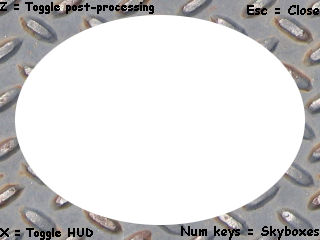
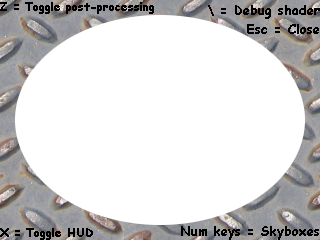
minor updates

Changed region(s): [[0.6562, 0.0, 1.0, 0.0875], [0.75, 0.0875, 1.0, 0.1458]]

diff --git a/example/example.c b/example/example.c
@@ -34,6 +34,7 @@ int main(int argc, char** argv) {
     stbi_set_flip_vertically_on_load(1);
 
     prShaderData* shaderProgram = createDefaultShader(test->openglContext);
+    debugShaderProgram = createDebugShader(test->openglContext);
 
     prShaderData* skyboxShaderProgram = prShaderCreate();
     prShaderLinkContext(skyboxShaderProgram, test->openglContext);
@@ -285,6 +286,9 @@ int main(int argc, char** argv) {
     test->openglContext->Enable(GL_BLEND);
 
     glfwMaximizeWindow(test->window);
+
+    prShaderSetUniform2f(debugShaderProgram, "screenSize", windowWidth, windowHeight);
+
     while(!glfwWindowShouldClose(test->window)) {
         test->openglContext->Enable(GL_DEPTH_TEST);
         prFramebufferClear(test->openglContext, NULL, PR_BUFFER_BIT_COLOR | PR_BUFFER_BIT_DEPTH);
@@ -299,47 +303,49 @@ int main(int argc, char** argv) {
         vec3 rotation = {radians(yaw), radians(pitch), radians(0.0f)};
         prCameraUpdate(camera, cameraPosition, rotation, 45.0f, 0.1f, 1500.0f);
 
+        prShaderData* currentShaderProgram = (useDebugShader ? debugShaderProgram : shaderProgram);
+
         prShaderSetUniform3f(shaderProgram, "cameraPosition", camera->position[0], camera->position[1], camera->position[2]);
-        prShaderSetUniformMatrix4fv(shaderProgram, "view", camera->view[0]);
-        prShaderSetUniformMatrix4fv(shaderProgram, "projection", camera->projection[0]);
+        prShaderSetUniformMatrix4fv(currentShaderProgram, "view", camera->view[0]);
+        prShaderSetUniformMatrix4fv(currentShaderProgram, "projection", camera->projection[0]);
 
         float val = smoothOvertimeSin();
 
         prFramebufferBind(framebuffer);
 
         translationsToMatrix(translation, (vec3){0.0f, 0.0f, -20.0f}, GLM_VEC3_ZERO, (vec3){30.0f, 30.0f, 10.0f});
-        bindMaterial(&materialMetal, shaderProgram);
-        prShaderSetUniformMatrix4fv(shaderProgram, "translation", translation[0]);
+        bindMaterial(&materialMetal, currentShaderProgram);
+        prShaderSetUniformMatrix4fv(currentShaderProgram, "translation", translation[0]);
         prMeshDraw(meshCube);
 
         translationsToMatrix(translation, (vec3){0.0f, -20.0f, 0.0f}, GLM_VEC3_ZERO, (vec3){30.0f, 10.0f, 30.0f});
-        bindMaterial(&materialMetal, shaderProgram);
-        prShaderSetUniformMatrix4fv(shaderProgram, "translation", translation[0]);
+        bindMaterial(&materialMetal, currentShaderProgram);
+        prShaderSetUniformMatrix4fv(currentShaderProgram, "translation", translation[0]);
         prMeshDraw(meshCube);
 
         translationsToMatrix(translation, (vec3){-20.0f, 0.0f, 0.0f}, GLM_VEC3_ZERO, (vec3){10.0f, 30.0f, 30.0f});
-        bindMaterial(&materialMetal, shaderProgram);
-        prShaderSetUniformMatrix4fv(shaderProgram, "translation", translation[0]);
+        bindMaterial(&materialMetal, currentShaderProgram);
+        prShaderSetUniformMatrix4fv(currentShaderProgram, "translation", translation[0]);
         prMeshDraw(meshCube);
 
         translationsToMatrix(translation, (vec3){1.0f, 0.0f, 0.0f}, (vec3){0.0f, val, 0.0f}, GLM_VEC3_ONE);
-        bindMaterial(&materialWood, shaderProgram);
-        prShaderSetUniformMatrix4fv(shaderProgram, "translation", translation[0]);
+        bindMaterial(&materialWood, currentShaderProgram);
+        prShaderSetUniformMatrix4fv(currentShaderProgram, "translation", translation[0]);
         prMeshDraw(meshCube);
 
         translationsToMatrix(translation, (vec3){-1.0f, 0.0f, 0.0f}, (vec3){0.0f, val, 0.0f}, GLM_VEC3_ONE);
-        bindMaterial(&materialWoodMetal, shaderProgram);
-        prShaderSetUniformMatrix4fv(shaderProgram, "translation", translation[0]);
+        bindMaterial(&materialWoodMetal, currentShaderProgram);
+        prShaderSetUniformMatrix4fv(currentShaderProgram, "translation", translation[0]);
         prMeshDraw(meshCube);
 
         translationsToMatrix(translation, (vec3){0.0f, 1.5f, 0.0f}, (vec3){0.0f, val, 0.0f}, GLM_VEC3_ONE);
-        bindMaterial(&materialBrick, shaderProgram);
-        prShaderSetUniformMatrix4fv(shaderProgram, "translation", translation[0]);
+        bindMaterial(&materialBrick, currentShaderProgram);
+        prShaderSetUniformMatrix4fv(currentShaderProgram, "translation", translation[0]);
         prMeshDraw(meshCube);
 
         translationsToMatrix(translation, (vec3){0.0f, val / 3.5f - 1.5f, 0.0f}, (vec3){0.0f, radians(val * 100.0f), 0.0f}, GLM_VEC3_ONE);
-        bindMaterial(&defaultMaterial, shaderProgram);
-        prShaderSetUniformMatrix4fv(shaderProgram, "translation", translation[0]);
+        bindMaterial(&defaultMaterial, currentShaderProgram);
+        prShaderSetUniformMatrix4fv(currentShaderProgram, "translation", translation[0]);
         prMeshDraw(meshCube);
 
         switch(currentSkybox) {
@@ -458,6 +464,8 @@ int main(int argc, char** argv) {
 
     prComputeShaderDestroy(computeShaderProgram);
     computeShaderProgram = NULL;
+    prShaderDestroy(debugShaderProgram);
+    debugShaderProgram = NULL;
     prShaderDestroy(hudShaderProgram);
     hudShaderProgram = NULL;
     prShaderDestroy(skyboxShaderProgram);

diff --git a/example/exampleGlobalValues.h b/example/exampleGlobalValues.h
@@ -334,6 +334,49 @@ void main() {\n\
 "
 #endif
 
+#ifndef DEBUG_FRAGMENT_SHADER
+#define DEBUG_FRAGMENT_SHADER "\n\
+#version 460 core\n\
+out vec4 fragmentColor;\n\
+\n\
+uniform vec2 screenSize;\n\
+\n\
+in vec3 fragmentPosition;\n\
+in vec3 normals;\n\
+in vec2 textureCoordinates;\n\
+\n\
+struct Material {\n\
+    sampler2D ambient;\n\
+    sampler2D diffuse;\n\
+    sampler2D specular;\n\
+    sampler2D normal;\n\
+    float shininess;\n\
+};\n\
+uniform Material material;\n\
+\n\
+void main() {\n\
+    vec4 ambient = texture(material.ambient, textureCoordinates);\n\
+    vec4 diffuse = texture(material.diffuse, textureCoordinates);\n\
+    vec3 specular = texture(material.specular, textureCoordinates).rgb;\n\
+    vec3 normal = normalize(texture(material.normal, textureCoordinates)).xyz;\n\
+    normal = normalize(normals);\n\
+    \n\
+    vec4 result = vec4(0.0, 0.0, 0.0, 1.0);\n\
+    if(gl_FragCoord.x > screenSize.x / 2 && gl_FragCoord.y > screenSize.y / 2) {\n\
+        result = ambient;\n\
+    } else if(gl_FragCoord.x > screenSize.x / 2 && gl_FragCoord.y <= screenSize.y / 2) {\n\
+        result = diffuse;\n\
+    } else if(gl_FragCoord.x <= screenSize.x / 2 && gl_FragCoord.y <= screenSize.y / 2) {\n\
+        result = vec4(specular, 1.0);\n\
+    } else if(gl_FragCoord.x <= screenSize.x / 2 && gl_FragCoord.y > screenSize.y / 2) {\n\
+        result = vec4((normal + 1.0) * 0.5, 1.0);\n\
+    }\n\
+    \n\
+    fragmentColor = result;\n\
+}\n\
+"
+#endif
+
 #ifndef SKYBOX_VERTEX_SHADER
 #define SKYBOX_VERTEX_SHADER "\n\
 #version 460 core\n\
@@ -461,9 +504,11 @@ const char* skybox2Textures[6] = {
 };
 
 int currentSkybox = 1;
-int showHUD = 1;
-int showPostProcessing = 1;
+bool showHUD = 1;
+bool showPostProcessing = 1;
 
+bool useDebugShader = false;
+prShaderData* debugShaderProgram = NULL;
 prComputeShaderData* computeShaderProgram = NULL;
 prTextureData* postProcessingTexture = NULL;
 prTextureData* colorTexture = NULL;

diff --git a/example/exampleFunctions.h b/example/exampleFunctions.h
@@ -125,6 +125,8 @@ void framebufferSizeCallbackLite(GLFWwindow* window, int width, int height) {
     context->Viewport(0, 0, width, height);
     prCameraUpdateDimentions(camera);
 
+    prShaderSetUniform2f(debugShaderProgram, "screenSize", windowWidth, windowHeight);
+
     prTextureUpdate(colorTexture, PR_FORMAT_RGBA, PR_WRAPPING_EDGE, PR_FILTER_LINEAR, NULL, 0, windowWidth, windowHeight);
     prRenderBufferUpdate(depthStencilRBO, PR_FORMAT_DEPTH_STENCIL, windowWidth, windowHeight);
 }
@@ -180,6 +182,10 @@ void keyCallback(GLFWwindow* window, int key, int scancode, int action, int mods
         currentSkybox = 0;
     }
 
+    if(key == GLFW_KEY_BACKSLASH && action == GLFW_PRESS) {
+        useDebugShader = !useDebugShader;
+    }
+
     if(key == GLFW_KEY_ENTER && action == GLFW_PRESS) {
         GladGLContext* context = glfwGetWindowUserPointer(window);
 
@@ -232,6 +238,13 @@ prShaderData* createDefaultShader(GladGLContext* context) {
     prShaderData* shader = prShaderCreate();
     prShaderLinkContext(shader, context);
     prShaderUpdate(shader, DEFAULT_VERTEX_SHADER, DEFAULT_FRAGMENT_SHADER);
+    return shader;
+}
+
+prShaderData* createDebugShader(GladGLContext* context) {
+    prShaderData* shader = prShaderCreate();
+    prShaderLinkContext(shader, context);
+    prShaderUpdate(shader, DEFAULT_VERTEX_SHADER, DEBUG_FRAGMENT_SHADER);
     return shader;
 }
 

diff --git a/source/shader.c b/source/shader.c
@@ -112,6 +112,13 @@ void prShaderLocationSetUniform1f(prShaderData* shaderProgram, GLint location, G
     shaderProgram->context->Uniform1f(location, value);
 }
 
+void prShaderLocationSetUniform2f(prShaderData* shaderProgram, GLint location, GLfloat v1, GLfloat v2) {
+    if(!shaderProgram || !shaderProgram->context || !shaderProgram->shaderProgramObject) {
+        return;
+    }
+    shaderProgram->context->Uniform2f(location, v1, v2);
+}
+
 void prShaderLocationSetUniform3f(prShaderData* shaderProgram, GLint location, GLfloat v1, GLfloat v2, GLfloat v3) {
     if(!shaderProgram || !shaderProgram->context || !shaderProgram->shaderProgramObject) {
         return;
@@ -136,6 +143,12 @@ void prShaderSetUniform1f(prShaderData* shaderProgram, const GLchar* uniformName
     UNIFORM_BOILERPLATE;
 
     shaderProgram->context->Uniform1f(uniformLocation, value);
+}
+
+void prShaderSetUniform2f(prShaderData* shaderProgram, const GLchar* uniformName, GLfloat v1, GLfloat v2) {
+    UNIFORM_BOILERPLATE;
+
+    shaderProgram->context->Uniform2f(uniformLocation, v1, v2);
 }
 
 void prShaderSetUniform3f(prShaderData* shaderProgram, const GLchar* uniformName, GLfloat v1, GLfloat v2, GLfloat v3) {

diff --git a/headers/PR/shader.h b/headers/PR/shader.h
@@ -21,10 +21,12 @@ void prShaderSetAttributeLocation(prShaderData* shaderProgram, GLuint index, con
 
 void prShaderLocationSetUniform1i(prShaderData* shaderProgram, GLint location, GLint value);
 void prShaderLocationSetUniform1f(prShaderData* shaderProgram, GLint location, GLfloat value);
+void prShaderLocationSetUniform2f(prShaderData* shaderProgram, GLint location, GLfloat v1, GLfloat v2);
 void prShaderLocationSetUniform3f(prShaderData* shaderProgram, GLint location, GLfloat v1, GLfloat v2, GLfloat v3);
 void prShaderLocationSetUniformMatrix4fv(prShaderData* shaderProgram, GLint location, const GLfloat* matrix);
 
 void prShaderSetUniform1i(prShaderData* shaderProgram, const GLchar* uniformName, GLint value);
 void prShaderSetUniform1f(prShaderData* shaderProgram, const GLchar* uniformName, GLfloat value);
+void prShaderSetUniform2f(prShaderData* shaderProgram, const GLchar* uniformName, GLfloat v1, GLfloat v2);
 void prShaderSetUniform3f(prShaderData* shaderProgram, const GLchar* uniformName, GLfloat v1, GLfloat v2, GLfloat v3);
 void prShaderSetUniformMatrix4fv(prShaderData* shaderProgram, const GLchar* uniformName, GLfloat* matrix);
